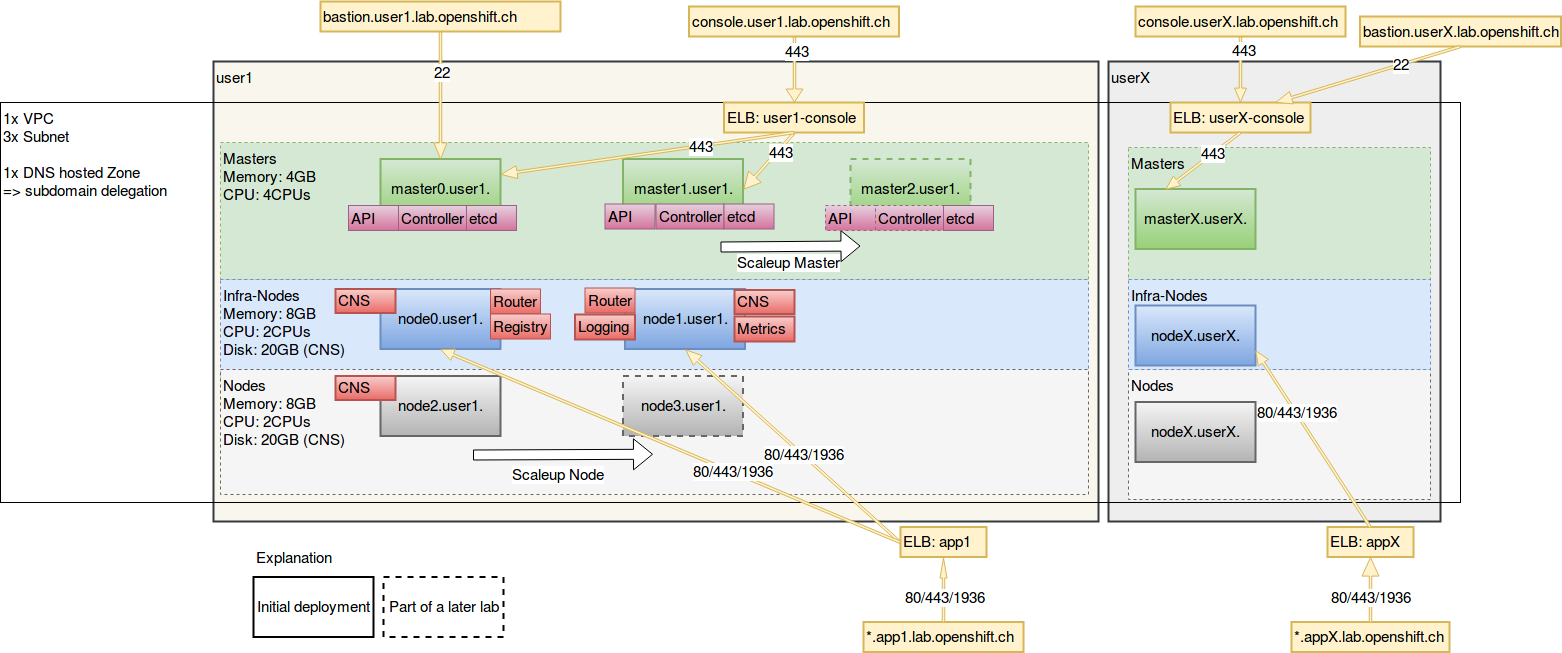
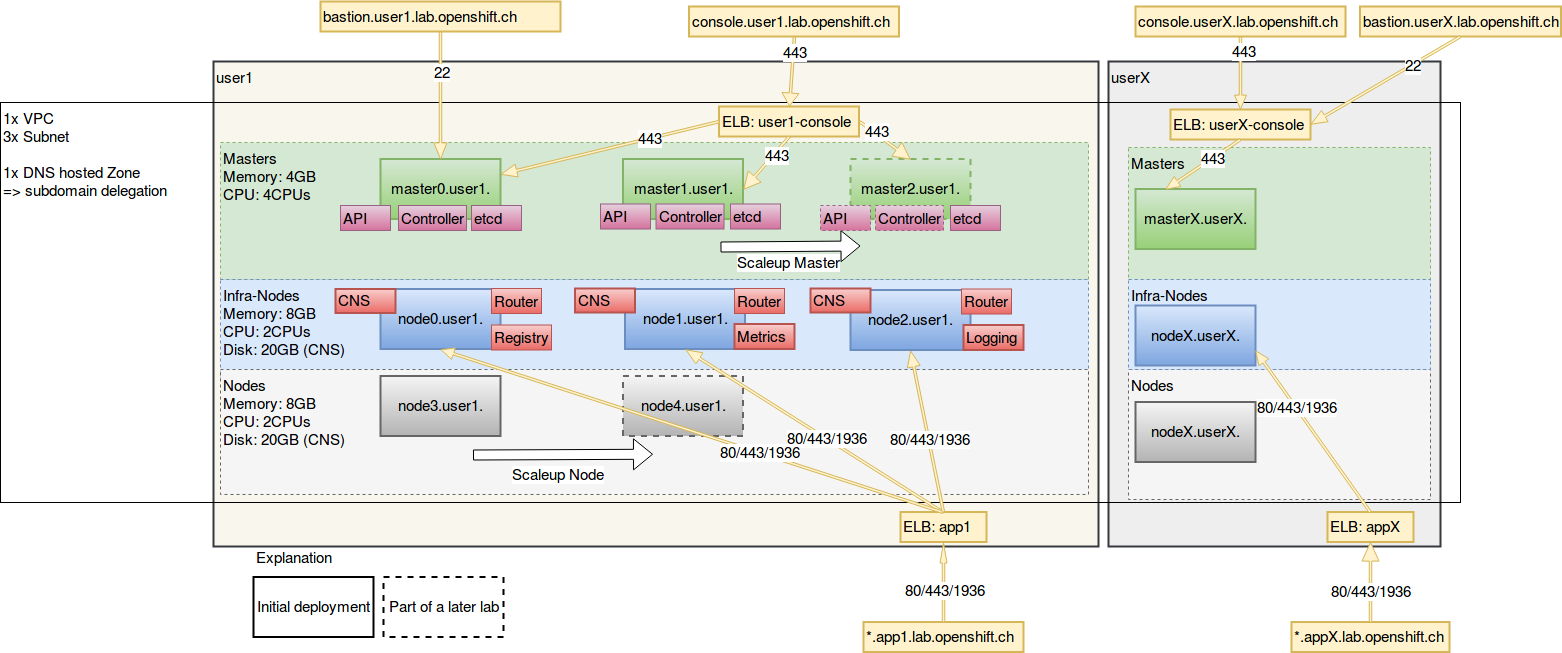
Added third infra node

diff --git a/labs/35_add_new_node_and_master.md b/labs/35_add_new_node_and_master.md
@@ -5,7 +5,7 @@ In this lab we will add a new node and a new master to our OpenShift cluster.
 
 ### Add a New Node
 
-Uncomment the new node (`node3.user...`) in the Ansible inventory and also uncomment the `new_nodes` group in the "[OSEv3:children]" section.
+Uncomment the new node (`node4.user...`) in the Ansible inventory and also uncomment the `new_nodes` group in the "[OSEv3:children]" section.
 ```
 [ec2-user@master0 ~]$ sudo vim /etc/ansible/hosts
 ...
@@ -16,7 +16,7 @@ new_nodes
 ...
 
 [new_nodes]
-node3.user[X].lab.openshift.ch openshift_hostname=node3.user[X].lab.openshift.ch openshift_node_labels="{'region': 'main', 'zone': 'default'}" openshift_schedulable=false
+node4.user[X].lab.openshift.ch openshift_hostname=node4.user[X].lab.openshift.ch openshift_node_labels="{'region': 'main', 'zone': 'default'}" openshift_schedulable=false
 ...
 
 ```
@@ -25,8 +25,8 @@ As in lab 2.2 we need to run an Ansible playbook to prepare the new node for the
 
 Test the ssh connection and run the pre-install playbook:
 ```
-[ec2-user@master0 ~]$ ansible node3.user[X].lab.openshift.ch -m ping
-[ec2-user@master0 ~]$ ansible-playbook resource/pre-install.yml --limit=node3.user[X].lab.openshift.ch
+[ec2-user@master0 ~]$ ansible node4.user[X].lab.openshift.ch -m ping
+[ec2-user@master0 ~]$ ansible-playbook resource/pre-install.yml --limit=node4.user[X].lab.openshift.ch
 ```
 
 Now add the new node with the scaleup playbook:
@@ -43,18 +43,19 @@ master1.user[X].lab.openshift.ch   Ready,SchedulingDisabled   6d        v1.6.1+5
 node0.user[X].lab.openshift.ch     Ready                      6d        v1.6.1+5115d708d7
 node1.user[X].lab.openshift.ch     Ready                      6d        v1.6.1+5115d708d7
 node2.user[X].lab.openshift.ch     Ready                      6d        v1.6.1+5115d708d7
-node3.user[X].lab.openshift.ch     Ready,SchedulingDisabled   1m        v1.6.1+5115d708d7
+node3.user[X].lab.openshift.ch     Ready                      6d        v1.6.1+5115d708d7
+node4.user[X].lab.openshift.ch     Ready,SchedulingDisabled   1m        v1.6.1+5115d708d7
 ```
 
-Enable scheduling for the new node node3, drain another one (e.g. node2) and check if pods are running correctly on the new node. If you don't see any pods on it make sure there is at least one "non-infra-pod" running on your OpenShift cluster.
+Enable scheduling for the new node node4, drain another one (e.g. node3) and check if pods are running correctly on the new node. If you don't see any pods on it make sure there is at least one "non-infra-pod" running on your OpenShift cluster.
 ```
-[ec2-user@master0 ~]$ oc adm drain node2.user[X].lab.openshift.ch --ignore-daemonsets --delete-local-data
-[ec2-user@master0 ~]$ watch "oc adm manage-node node3.user[X].lab.openshift.ch --list-pods"
+[ec2-user@master0 ~]$ oc adm drain node3.user[X].lab.openshift.ch --ignore-daemonsets --delete-local-data
+[ec2-user@master0 ~]$ watch "oc adm manage-node node4.user[X].lab.openshift.ch --list-pods"
 ```
 
-If everything works as expected, we schedule node2 again:
+If everything works as expected, we schedule node3 again:
 ```
-[ec2-user@master0 ~]$ oc adm manage-node node2.user[X].lab.openshift.ch --schedulable
+[ec2-user@master0 ~]$ oc adm manage-node node3.user[X].lab.openshift.ch --schedulable
 ```
 
 Inside the Ansible inventory, we move the new node from the `[new_nodes]` to the `[app_nodes]` group:
@@ -66,8 +67,9 @@ master0.user[X].lab.openshift.ch openshift_hostname=master0.user[X].lab.openshif
 master1.user[X].lab.openshift.ch openshift_hostname=master1.user[X].lab.openshift.ch openshift_node_labels="{'zone': 'default'}" openshift_schedulable=false
 node0.user[X].lab.openshift.ch openshift_hostname=node0.user[X].lab.openshift.ch openshift_node_labels="{'region': 'infra', 'zone': 'default'}"
 node1.user[X].lab.openshift.ch openshift_hostname=node1.user[X].lab.openshift.ch openshift_node_labels="{'region': 'infra', 'zone': 'default'}"
-node2.user[X].lab.openshift.ch openshift_hostname=node2.user[X].lab.openshift.ch openshift_node_labels="{'region': 'main', 'zone': 'default'}"
+node2.user[X].lab.openshift.ch openshift_hostname=node2.user[X].lab.openshift.ch openshift_node_labels="{'region': 'infra', 'zone': 'default'}"
 node3.user[X].lab.openshift.ch openshift_hostname=node3.user[X].lab.openshift.ch openshift_node_labels="{'region': 'main', 'zone': 'default'}"
+node4.user[X].lab.openshift.ch openshift_hostname=node4.user[X].lab.openshift.ch openshift_node_labels="{'region': 'main', 'zone': 'default'}"
 ...
 
 [new_nodes]

diff --git a/labs/41_out_of_resource_handling.md b/labs/41_out_of_resource_handling.md
@@ -71,7 +71,7 @@ shutdown of evicted pods.
 
 Usually you would configure pod eviction in the `openshift_node_kubelet_args` key of your Ansible inventory. However since the config playbook that applies the configuration to the cluster takes about 10 minutes to run on OCP 3.6 we apply the configuration directly to the nodes in this lab.
 
-For your `node2` and `node3` host enhance `kubeletArguments` in `/etc/origin/node/node-config.yaml` as follows: 
+For your `node3` and `node4` host enhance `kubeletArguments` in `/etc/origin/node/node-config.yaml` as follows: 
 
 ```yaml
 kubeletArguments:
